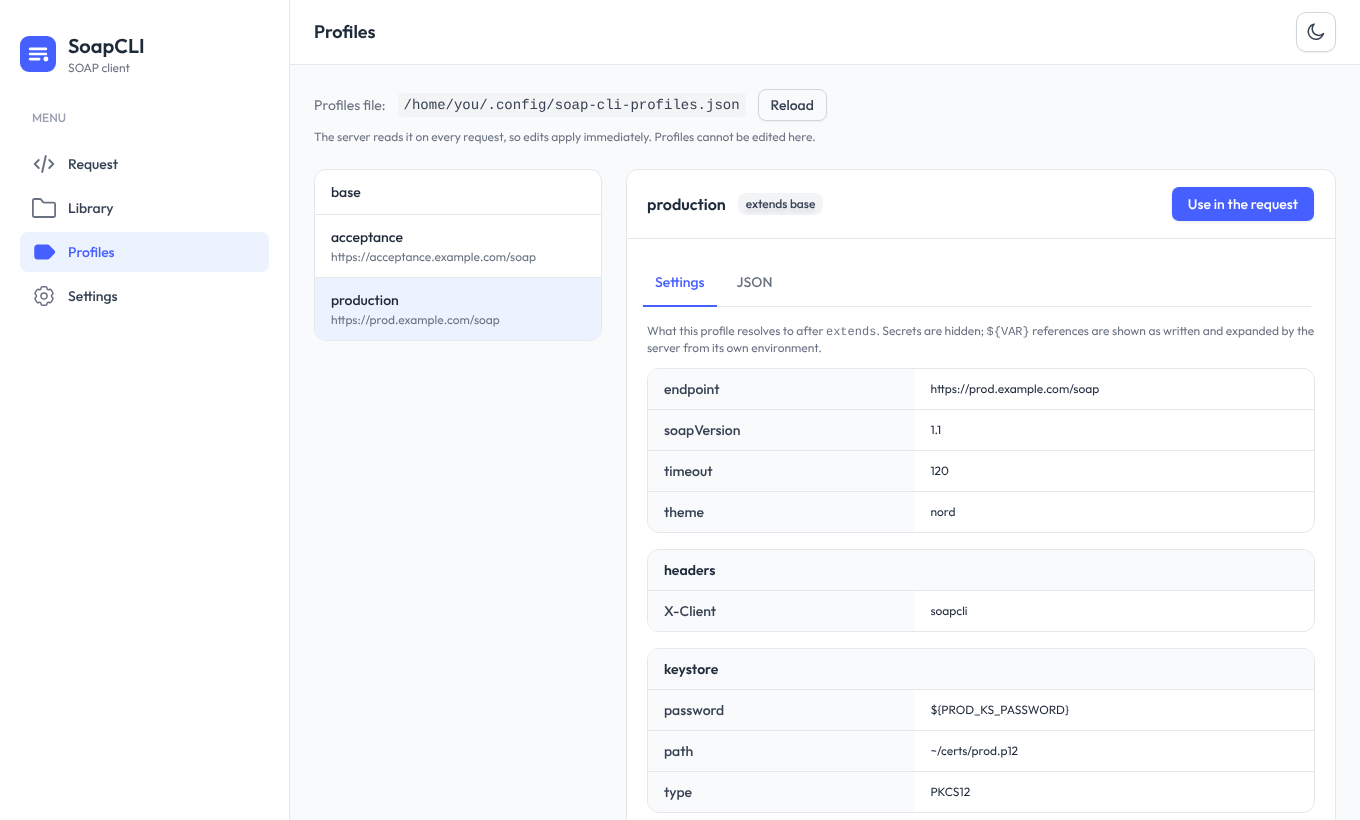
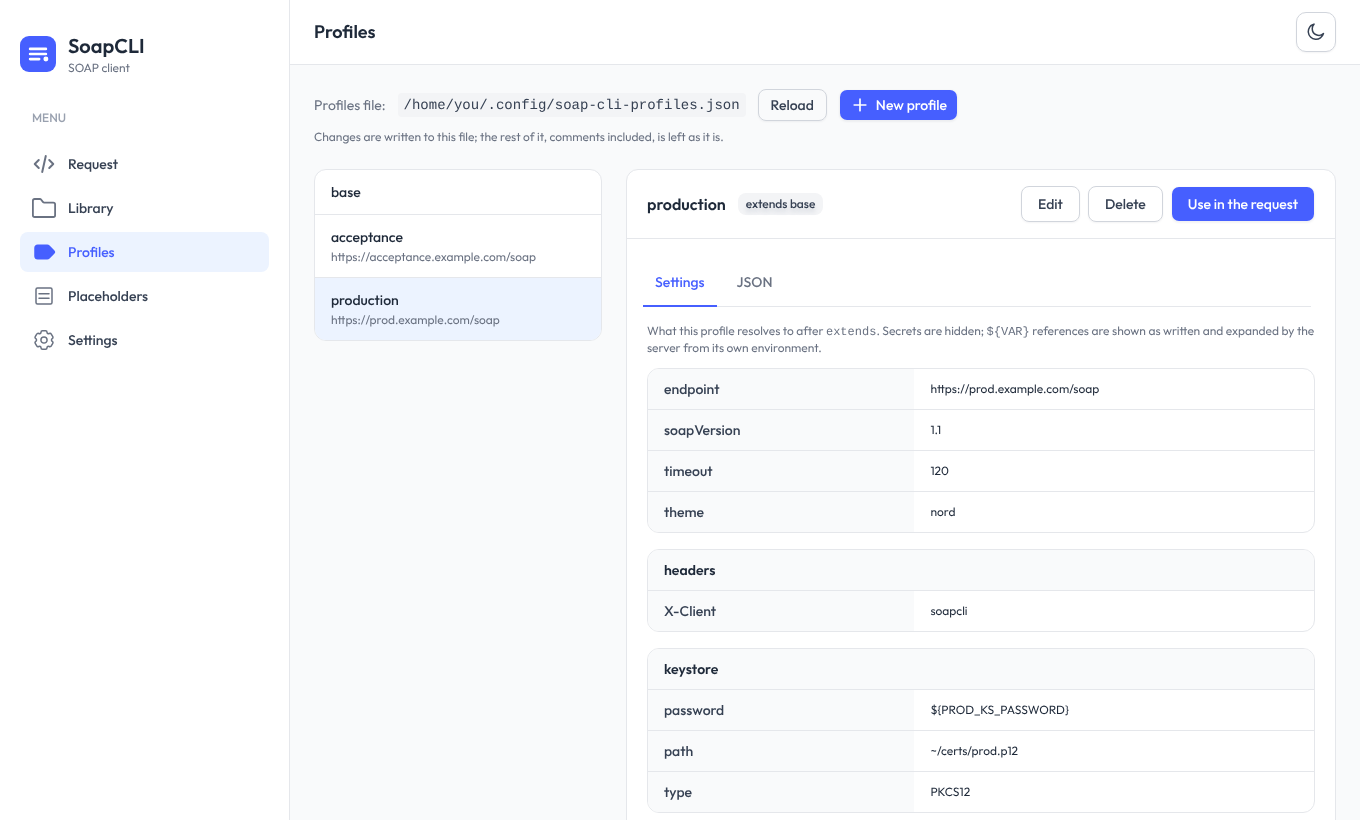
Document editing profiles and the placeholder options
Editing profiles (what the form does, how the file is edited, who can edit and why), the
placeholder options file and its page, the new options in the table, the Docker volume without
:ro and SOAPCLI_ALLOW_CONFIG_EDIT, the API and security notes in the architecture page,
troubleshooting rows and the changelog. The screenshots are retaken with the current UI.

Claude-Session: https://claude.ai/code/session_01EqyPCrqqY3yFc8X9emwpRX

diff --git a/docs/web-ui.md b/docs/web-ui.md
@@ -45,7 +45,9 @@ remembered.
 - **Body**: an XML editor with highlighting, folding and line numbers (*Format* pretty-prints it). Under the editor, the
   two things the body refers to are listed, so you never leave the screen:
     - **Variables**: every `___NAME:default___` in the request gets a field, so you can change a value without editing
-      the XML ([placeholders](cli-placeholders.md)). A field left empty uses the default written in the request.
+      the XML ([placeholders](cli-placeholders.md)). A field left empty uses the default written in the request. A
+      placeholder that has [options](#placeholder-options) is a **dropdown** instead: the request's own default, each
+      option, and *Custom value…* to type another one.
     - **Attachments**: every `cid:NAME` written as the **text** of an element is detected automatically, and you give
       the file for it. A `cid:` inside an **attribute** is not an attachment and is not listed. In
       ```xml
@@ -79,7 +81,7 @@ profile appear as `****` for you to fill in), and *Download request.xml* saves t
 to repeat in a script.
 
 **Library** keeps your *Saved* requests and the last 50 calls (*History*), searchable by name or URL, with *Export* and
-*Import* of the saved ones as a JSON file. **Profiles** shows the server's profiles (below). **Settings** holds the theme,
+*Import* of the saved ones as a JSON file. **Profiles** and **Placeholders** show, and can edit, the server's profiles and the options of the placeholders (below). **Settings** holds the theme,
 the layout, the defaults for new requests and the details of the server (version, allowed destinations, limits).
 
 ## Server profiles
@@ -97,7 +99,78 @@ request* selects it, and *Load its request file* fills the editor with the profi
 
 Secrets stay on the server: the browser only ever receives the profile with them masked (`****`), and `${VAR}`
 references are shown as written and expanded by the server from its own environment. The server reads the file on every
-request, so edits take effect immediately (press *Reload* to see them). Profiles cannot be edited from the UI.
+request, so edits made by hand take effect immediately (press *Reload* to see them).
+
+### Editing profiles
+
+**Edit** opens a profile as a form, **New profile** creates one, and **Delete** removes it.
+
+![The profile form: the settings of a profile, with what it inherits shown where a field is empty](assets/img/web-ui/profile-edit-light.png)
+
+- The form edits what the profile **itself** says, not what it inherits. A field left empty shows what the profile would
+  get from the one it extends (*inherited: 1.1*), and a group that is inherited (the proxy, the client certificate, the
+  trust store) can be switched off for this profile (*Do not use the proxy that base defines*, which is written as
+  `null`).
+- **Secrets** never reach the page. A saved one shows as *saved*; *Change* lets you type a new value (leave it empty to
+  remove the secret), and *Keep the saved one* undoes that. This holds for `authBasic`, `authBearer`, the passwords, and any
+  header or variable whose name looks like a secret (`X-Api-Key`, `TOKEN`...).
+- Settings the form does not know (a typo, or a setting of a newer version) are kept as they are.
+- **The file is edited, not rewritten.** Only the profile you change is replaced: the other profiles, their formatting and
+  the comments around them stay byte for byte as they were (comments *inside* the edited profile are lost). The file is
+  replaced atomically, keeps its permissions and, if it is a symbolic link, stays one; a file that did not exist is created
+  readable by its owner only.
+- **Nobody's change is overwritten.** Every save quotes the revision of the file the form was made from; if the file
+  changed since (by hand, or in another window), the save is refused and *Reload the file* gives up the edits and shows
+  what is there now.
+- **A profile that would not work is refused.** The same checks as when the profile is used run first (types, `extends`,
+  loops), and a change must not break a profile that extends this one. A profile cannot be deleted while another extends
+  it. Things worth knowing, such as a setting SoapCLI ignores, or a `${VAR}` that is not set on the server (so the types
+  could not be checked), are shown after saving.
+
+**Who can edit.** Editing a profile can send its credentials to another destination, or point it at any file of the
+machine (`requestFile`, `attachments`, `keystore`), so it is not on for everybody:
+
+| The server | Editing from the UI |
+|---|---|
+| listens on this machine only (the default, `127.0.0.1`) | **on**, if the file is writable |
+| listens on a network address (and so does Docker, inside the container) | **off**, until you start it with `--allow-config-edit` |
+| started with `--no-config-edit` | off |
+
+The file must be writable too: with Docker, mount the folder with the profiles *without* `:ro`
+([details](docker.md#profiles-and-secrets)). When editing is off the page says why, and everything can still be viewed
+and used. Turn it on for a shared server only together with a login (`--ui-user`).
+
+## Placeholder options
+
+A placeholder (`___ENV:acceptance___`) can offer a **dropdown** of values instead of a text field. The options are not
+part of a profile, because they belong to the placeholders, not to an environment: they live in a file of their own,
+`~/.config/soap-cli-placeholders.json` by default (`--placeholders-file`, `SOAPCLI_PLACEHOLDERS_FILE`;
+`/config/placeholders.json` in the Docker image). Like the profiles file, it accepts comments and trailing commas:
+
+```json
+{
+  // Options for the placeholders of a request
+  "placeholders": {
+    "ENV": { "options": ["acceptance", "staging", { "value": "production", "label": "Production (careful)" }] },
+    "COUNTRY": {
+      "description": "Country code",
+      "options": [{ "value": "ES", "label": "Spain" }, { "value": "NL", "label": "Netherlands" }]
+    }
+  }
+}
+```
+
+An option is a value, or a `{ "value", "label" }` when the dropdown should show something friendlier than the value
+(*Spain (ES)*). Options are matched by the name of the placeholder, in any request. The first choice of the dropdown is
+always the request's own default, and *Custom value…* lets you type something that is not listed. A problem with one
+entry (say, `options` is not a list) is reported on that entry and does not stop the others.
+
+![The Placeholders page: the options of a placeholder](assets/img/web-ui/placeholders-light.png)
+
+The **Placeholders** page edits the file, with the same rules as the profiles (who can edit, the revision check, the rest
+of the file left alone): add a placeholder, give it options (one by one, or pasted as lines of `value` or
+`value | label`), put them in order, and remove them. From a request, *Give it options* (or *Edit the options*) under a
+variable opens the page on that placeholder. The command line client does not read this file: `--arg` takes any value.
 
 ## Attachments by path
 
@@ -144,6 +217,8 @@ like any internal tool that can call other systems:
   It is HTTP Basic, so put the server behind **HTTPS** (a reverse proxy; see [Docker](docker.md#behind-a-reverse-proxy)).
 - **Restrict where it can call**: `--allow-host '*.corp.example.com' --allow-host 10.1.*`. Redirects are checked too, so
   an allowed host cannot bounce a request to a forbidden one.
+- **Think before turning on editing** on a network address (`--allow-config-edit`): whoever can open the UI can then
+  change a profile's endpoint and so receive its credentials ([details](#editing-profiles)). Only with a login.
 - **Choose the attachments folder** with `--attachments-dir`: people using the UI can attach, and so send to the
   destinations they may call, any file inside it ([details](#attachments-by-path)).
 - **Remove the dangerous switch** if you want: `--no-insecure-tls` hides "Skip TLS certificate checks".
@@ -163,6 +238,8 @@ Content-Security-Policy: scripts may only come from the server itself.
 | `--ui-user`, `--ui-password`, `--ui-password-env` | `SOAPCLI_UI_USER`, `SOAPCLI_UI_PASSWORD` | no login |
 | `--allow-host` (repeatable) | `SOAPCLI_ALLOWED_HOSTS` (comma separated) | any host |
 | `--no-insecure-tls` | `SOAPCLI_NO_INSECURE_TLS=true` | allowed |
+| `--placeholders-file` | `SOAPCLI_PLACEHOLDERS_FILE` | `~/.config/soap-cli-placeholders.json` |
+| `--allow-config-edit` / `--no-config-edit` | `SOAPCLI_ALLOW_CONFIG_EDIT=true` / `false` | on only if listening on this machine |
 | `--attachments-dir` | `SOAPCLI_ATTACHMENTS_DIR` | the working directory (`/work` in Docker) |
 | `--max-body-mb` | `SOAPCLI_MAX_BODY_MB` | 25 |
 | `--max-response-mb` | `SOAPCLI_MAX_RESPONSE_MB` | 20 |
@@ -191,6 +268,9 @@ the address it prints.
 | "Cannot reach the SoapCLI server" | The server stopped or the connection was lost. *Check the server again* once it is back. |
 | "The host … is not allowed by this server's policy" | The administrator restricted the destinations (`--allow-host`). |
 | "larger than 25 MB" | Raise `--max-body-mb` (the request, attachments included, is limited). |
+| No *Edit* / *New profile* buttons | Editing is off (the page says why): a network address needs `--allow-config-edit`, and the file must be writable (Docker: no `:ro`). |
+| "The profiles file changed since you opened it" | Someone (or you, by hand) changed it. *Reload the file* shows the current content; make the change again. |
+| "This change would break the profile …" | A profile that extends this one would stop working. Fix that one first, or change both. |
 | "… is outside the folder this server allows for attachments" | The path leaves the attachments folder (`--attachments-dir`; `/work` in Docker). Put the file inside it. |
 | "The attachment file '…' was not found" | The path is read on the **server's** machine, not yours. With Docker, mount the files, e.g. `-v "$PWD/attachments:/work:ro"`. |
 | An attachment you expected is not listed | Its `cid:` must be the text of an element, not the value of an attribute. |

diff --git a/docs/architecture.md b/docs/architecture.md
@@ -10,6 +10,7 @@ io.github.marcemv90.soapcli
 │   ├── CallConfig, TransportOptions, TlsConfig, ProxyConfig   what the user asked for (plain fields)
 │   ├── HostPolicy                                             allow-list of destination hosts (checked on every hop)
 │   ├── Profiles, Profile                                      named presets: extends, ${ENV}, masking
+│   ├── JsonSplice                                             edits one entry of a JSON file in place (comments kept)
 │   ├── RequestBuilder → PreparedRequest                       placeholders, SOAP version, attachments, headers
 │   ├── SoapClient → SoapResponse                              HTTP(S) transport, redirects, errors
 │   ├── TlsSupport, ProxySupport                               key/trust stores, --insecure, proxy auth
@@ -23,6 +24,8 @@ io.github.marcemv90.soapcli
     ├── ServeCommand, ServeOptions                             `serve` / `healthcheck`: options, env defaults, banner
     ├── WebServer                                              JDK com.sun.net.httpserver: routing, security headers,
     │                                                          login, static files from the classpath (/web)
+    ├── ConfigFile                                             a file the UI may edit: revision, writability, safe write
+    ├── PlaceholderOptions                                     the dropdown options of the placeholders (own file)
     └── ApiService, ApiModel                                   the JSON API over the engine, and its DTOs
 
 web-ui/                       the interface: React + TypeScript + Tailwind + TailAdmin; builds into
@@ -97,6 +100,10 @@ dependency). It serves two things:
 | `POST /api/send` | build and send a request (`ApiModel.SendRequest` → `SendResponse`) |
 | `POST /api/preview` | the request that would be sent, with credentials masked |
 | `POST /api/attachments/check` | open an attachment path, confined to the attachments folder, and report its name and size |
+| `GET /api/profiles/{name}/definition` | a profile as the file has it (not merged), secrets masked, and who extends it |
+| `POST /api/profiles/save`, `/api/profiles/delete` | create, replace or remove a profile in the file |
+| `GET /api/placeholders` | the options of the placeholders, with whether they can be edited |
+| `POST /api/placeholders/save`, `/api/placeholders/delete` | create, replace or remove a placeholder's options |
 | `POST /api/format` | pretty-print XML (same code as the CLI) |
 
 ### One engine
@@ -121,6 +128,16 @@ A server that sends HTTP requests for whoever can reach it is an SSRF machine, s
   (`--max-body-mb`, `--max-response-mb`) and timeouts are capped; `--no-insecure-tls` removes the "skip checks" switch.
 - Secrets never go to the browser: profiles are described masked, and a request refers to a profile by name. Attachments
   arrive as Base64, are written to a private temporary directory with server-chosen names and deleted afterwards.
+- **Editing the configuration files.** `GET /api/profiles` and `/api/placeholders` say whether the file can be edited
+  and why not. A change needs the server's permission (`ServeOptions.configEditAllowed`: on by default only when it listens
+  on this machine, `--allow-config-edit` / `--no-config-edit` otherwise), a writable file, and the *revision* of the file the
+  edit was made from (a hash of its bytes; a stale one is a `409`, so nothing is overwritten). `JsonSplice` replaces only
+  the entry that changes, so comments and formatting elsewhere survive, and verifies that the result parses to the original
+  document plus exactly that entry before anything is written; `ConfigFile` writes through a temporary file and an atomic
+  move (in place where that is impossible, such as a single-file Docker volume), keeping the permissions and symbolic links.
+  Secrets are never sent to the browser: a profile is described masked (`Profiles.own`), and a secret that comes back as
+  `****` is replaced by the saved value (`Profiles.restoreSecrets`). A new or changed profile is validated like one that
+  is used (`Profiles.validate`), as are the profiles that extend it. All of these are JSON `POST`s, like the rest.
 - An attachment can also be named by **path**, and then the server reads that file: `ApiService.resolveAttachment`
   confines it to `--attachments-dir` (default: the working directory, `/work` in Docker). The path is made absolute and
   normalised and compared with the folder *before* the disk is touched (so a path outside it reveals nothing about what

diff --git a/docs/changelog.md b/docs/changelog.md
@@ -23,6 +23,24 @@
 
 ### Added
 
+- **Edit profiles from the web UI.** The *Profiles* page can create, edit and delete profiles, with a form for every
+  setting. It edits what the profile itself says (what it inherits shows as *inherited: …* in the empty fields, and an
+  inherited proxy or certificate can be switched off for the profile), keeps the settings the form does not know, and never
+  sees a secret: a saved one shows as *saved* and is kept unless a new value is typed. Only the edited profile is rewritten:
+  the rest of the file, its formatting and its comments stay byte for byte (the file is replaced atomically and keeps its
+  permissions and symbolic link). A save quotes the revision of the file it was made from, so a change made meanwhile is
+  never overwritten; a profile that would not work, or that would break one that extends it, is refused. **Who can edit:**
+  on by default only when the server listens on this machine; on a network address (Docker included) it needs the new
+  `--allow-config-edit` (`SOAPCLI_ALLOW_CONFIG_EDIT=true`), and `--no-config-edit` switches it off. The file must be
+  writable (with Docker, mount `/config` without `:ro`). See [Editing profiles](web-ui.md#editing-profiles).
+- **Dropdowns for placeholders.** A placeholder can have **options**, kept in a file of its own
+  (`~/.config/soap-cli-placeholders.json`; `--placeholders-file`, `SOAPCLI_PLACEHOLDERS_FILE`; `/config/placeholders.json`
+  in the Docker image) because they belong to the placeholders, not to a profile. Its variable on the request page becomes a
+  dropdown: the request's own default, each option (optionally with a label), and *Custom value…*. The new
+  **Placeholders** page edits the file, with the same rules as the profiles (who can edit, the revision check, the rest of
+  the file left alone), and a variable without options offers *Give it options*. The command line does not read this file.
+  See [Placeholder options](web-ui.md#placeholder-options). New API: `GET /api/placeholders`, `POST /api/placeholders/save`
+  and `/delete`, `GET /api/profiles/{name}/definition`, `POST /api/profiles/save` and `/delete`.
 - **Attachments by path.** An attachment can be named by its **path on the server** instead of being a file picked in the
   browser, and only the path is saved with the request (Library, History, the draft), so a request with attachments can be
   saved and sent again. Each `cid:` row has a path field that checks the file as you type. When you press *Send*, a dialog

diff --git a/docs/docker.md b/docs/docker.md
@@ -80,6 +80,18 @@ Paths in a profile are paths **inside the container**: put the keystore and trus
 `/config`. The container runs as an unprivileged user (uid 10001), so the files must be readable by others
 (`chmod a+r`), or run it with `--user "$(id -u):$(id -g)"`.
 
+The web UI can also **edit** the profiles file, and the file of [placeholder options](web-ui.md#placeholder-options)
+(`/config/placeholders.json`; the image sets `SOAPCLI_PLACEHOLDERS_FILE`). Inside a container the server listens on a
+network address, so editing is off by default; to turn it on, mount `/config` without `:ro` and set
+`SOAPCLI_ALLOW_CONFIG_EDIT=true` (and a login):
+
+```bash
+docker run -d -p 127.0.0.1:8080:8080 -v "$PWD/config:/config" -e SOAPCLI_ALLOW_CONFIG_EDIT=true \
+  -e SOAPCLI_UI_USER=alice -e SOAPCLI_UI_PASSWORD='choose-a-strong-one' ghcr.io/marcemv90/soapcli
+```
+
+The container user must be able to write to that folder (`chown 10001 config`, or `--user "$(id -u):$(id -g)"`).
+
 ### Docker Compose
 
 The repository has a ready `compose.yaml`:
@@ -88,7 +100,7 @@ The repository has a ready `compose.yaml`:
 docker compose up -d
 ```
 
-It publishes the UI on `127.0.0.1:8080`, reads `./config/profiles.json`, takes the login and the allowed destinations from
+It publishes the UI on `127.0.0.1:8080`, reads `./config/profiles.json` and `./config/placeholders.json`, takes the login and the allowed destinations from
 a `.env` file, and hardens the container (read-only file system, no capabilities, no new privileges).
 
 ### Behind a reverse proxy
@@ -171,5 +183,5 @@ You can also say `cli` explicitly (`docker run --rm IMAGE cli --version`).
 A slim Java 21 runtime (the jar itself targets Java 11) for `amd64` and `arm64`, the jar, and nothing else; it runs as an
 unprivileged user. The
 web UI is built into the jar, so the image has no web server or Node. `ENTRYPOINT` is `java -jar /app/SoapCLI.jar` and
-`CMD` is `serve`, which is why arguments to `docker run` select the command line client. Volumes: `/config` (profiles) and
+`CMD` is `serve`, which is why arguments to `docker run` select the command line client. Volumes: `/config` (profiles and placeholder options) and
 `/work` (the command line client's files, and the only place the web UI attaches files from by path).

diff --git a/web-ui/README.md b/web-ui/README.md
@@ -33,11 +33,13 @@ rebuild or used another `npm ci`.
 
 ```text
 src/
-  main.tsx, App.tsx          entry, hash routing (#/request, #/library, #/profiles, #/settings)
-  pages/                     RequestPage, LibraryPage, ProfilesPage, SettingsPage
+  main.tsx, App.tsx          entry, hash routing (#/request, #/library, #/profiles, #/placeholders, #/settings)
+  pages/                     RequestPage, LibraryPage, ProfilesPage, PlaceholdersPage, SettingsPage
   components/
     layout/AppShell.tsx      sidebar, header, theme toggle
-    request/                 EndpointBar, body (editor, variables, attachments), tabs (headers, auth, options), ResponsePanel
+    request/                 EndpointBar, body (editor, variables, attachments), tabs (headers, auth, options), ResponsePanel,
+                             AttachmentLoadDialog
+    profiles/                ProfileForm and its form controls (fields, secrets, name/value tables)
     common/                  CodeEditor (CodeMirror), small controls
     ui/                      TailAdmin components
   state/                     workspace (draft, response, history, saved, settings, server info), theme
@@ -46,7 +48,9 @@ src/
                              `cid:` references of the attachments list)
     attachments.ts           which assigned files are sent: the ones whose `cid:` the body still refers to
     load-attachments.ts      loads the files named by path, one by one, before sending (drives the progress dialog)
-    transports/server.ts     /api/send, /api/preview, /api/format, /api/info, /api/profiles
+    profile-form.ts          the model of the profile form: a profile as the JSON it is, edited by path; secrets are `****`
+    placeholder-options.ts   the rows of the placeholder options editor, pasted lists
+    transports/server.ts     /api/send, /api/preview, /api/format, /api/info, /api/profiles, /api/placeholders (and their edits)
     command.ts               "Copy as" (SoapCLI, Docker, curl)
     storage.ts               what is kept in localStorage (never secrets or attachment contents)
 test/                        Vitest suites

diff --git a/README.md b/README.md
@@ -18,8 +18,8 @@ image** that does both.
 - **Flexible** – SOAP 1.1 and 1.2 (auto-detected), custom headers, Basic/Bearer auth, client certificates and custom
   trust stores, HTTP/SOCKS proxies, MTOM attachments, placeholders and per-environment profiles.
 - **A web UI, embedded** – `java -jar SoapCLI.jar serve` opens a professional [TailAdmin](https://tailadmin.com)-based
-  client: XML editor, variables and attachments (detected from the request) right under the editor, server profiles you can
-  inspect, history and a library, light and dark themes. Everything it needs is inside the JAR; the calls are made by the
+  client: XML editor, variables (with dropdowns of options) and attachments (detected from the request) right under the
+  editor, server profiles you can inspect and edit, history and a library, light and dark themes. Everything it needs is inside the JAR; the calls are made by the
   server, so they reach anything that machine reaches, with its client certificates, proxies and profiles.
 - **Docker** – one image, the UI by default and the command line client on demand, for machines that have Docker but not
   Java.
@@ -78,7 +78,7 @@ java -jar SoapCLI.jar serve          # then open http://127.0.0.1:8080
 
 Write or paste a request, fill in its variables, choose a file for each `cid:` it refers to, press **Send**. The call is
 made by the SoapCLI server (so no CORS to worry about), which also brings client certificates, proxies and
-[profiles](https://marcemv90.github.io/SoapCLI/cli-profiles/), whose configuration you can read in the UI. See the
+[profiles](https://marcemv90.github.io/SoapCLI/cli-profiles/), which you can read and edit in the UI. See the
 [Web UI documentation](https://marcemv90.github.io/SoapCLI/web-ui/).
 
 ### Docker

diff --git a/docs/cli-placeholders.md b/docs/cli-placeholders.md
@@ -88,6 +88,11 @@ warning is printed on stderr, since the value would otherwise be silently ignore
 Warning: Argument 'CIDD' is not used by any ___CIDD:default___ placeholder in the request
 ```
 
+## Dropdowns in the web UI
+
+In the [web UI](web-ui.md#placeholder-options) a placeholder can offer a list of options, kept in a file of its own, so its
+variable becomes a dropdown. The command line client does not read that file: `--arg` takes any value.
+
 ## Placeholders in profiles
 
 A profile can set values for the placeholders with an `args` object, so each environment carries its own IDs; command

diff --git a/docs/cli-profiles.md b/docs/cli-profiles.md
@@ -8,6 +8,9 @@ every command line.
 A profile may also **inherit** from another one (`extends`) and refer to **environment variables** (`${VAR}`), so
 secrets do not have to be stored in the file.
 
+The [web UI](web-ui.md#server-profiles) shows the profiles and, where the server allows it, can create, edit and delete
+them without disturbing the comments and formatting of the rest of the file.
+
 !!! note
     Any CLI flag that has a corresponding field in the profiles JSON can be configured per profile.
     CLI flags still override the profile values at runtime.
